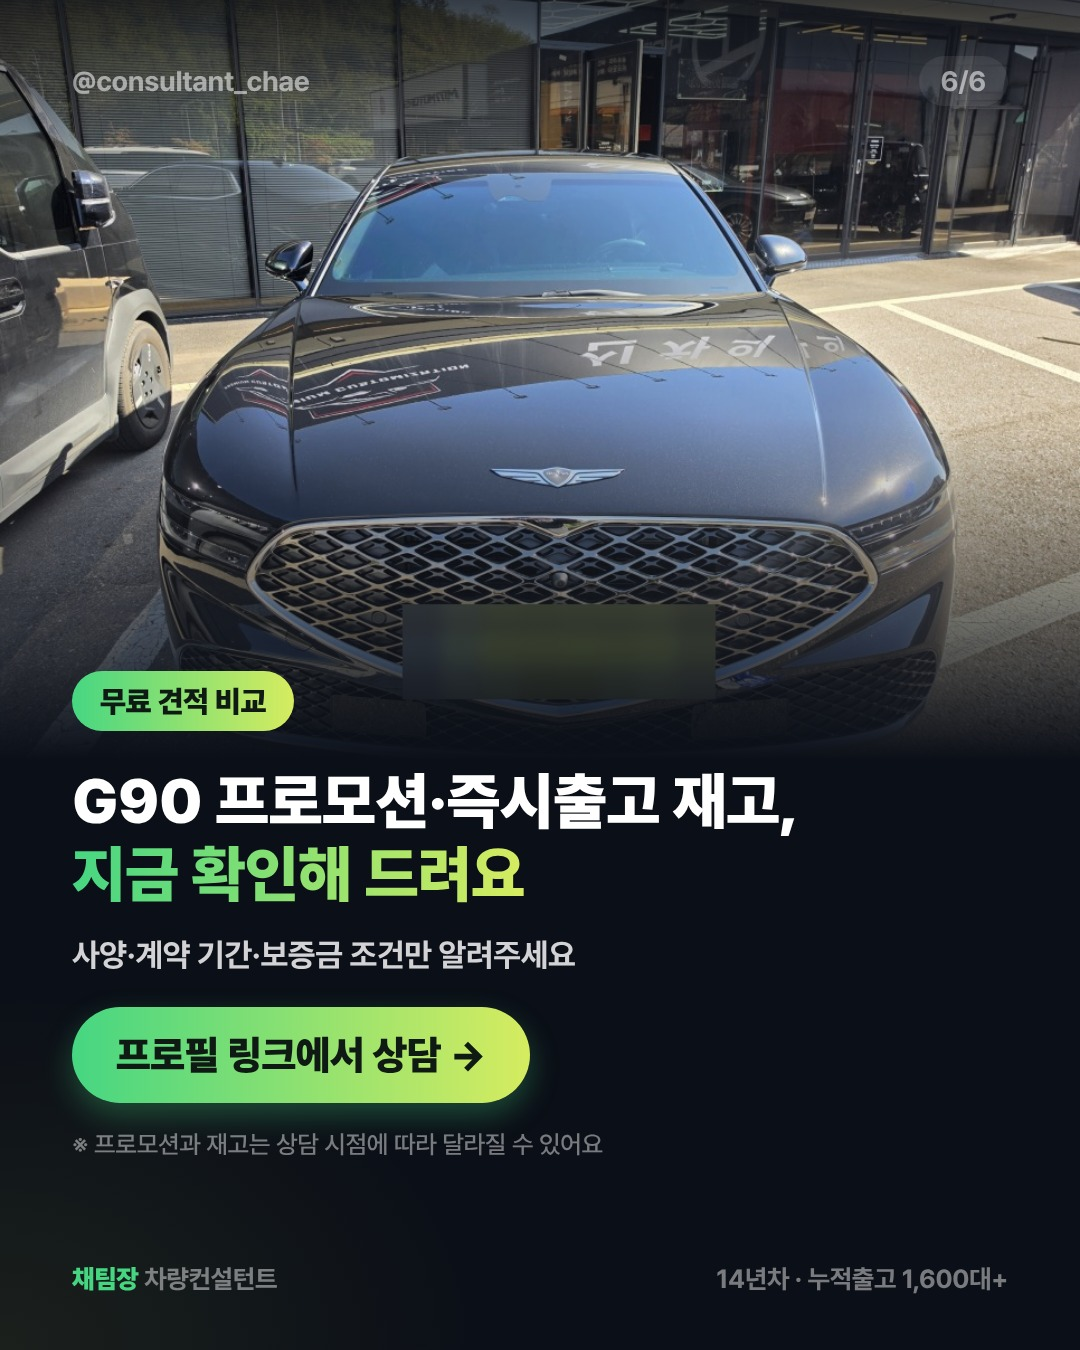
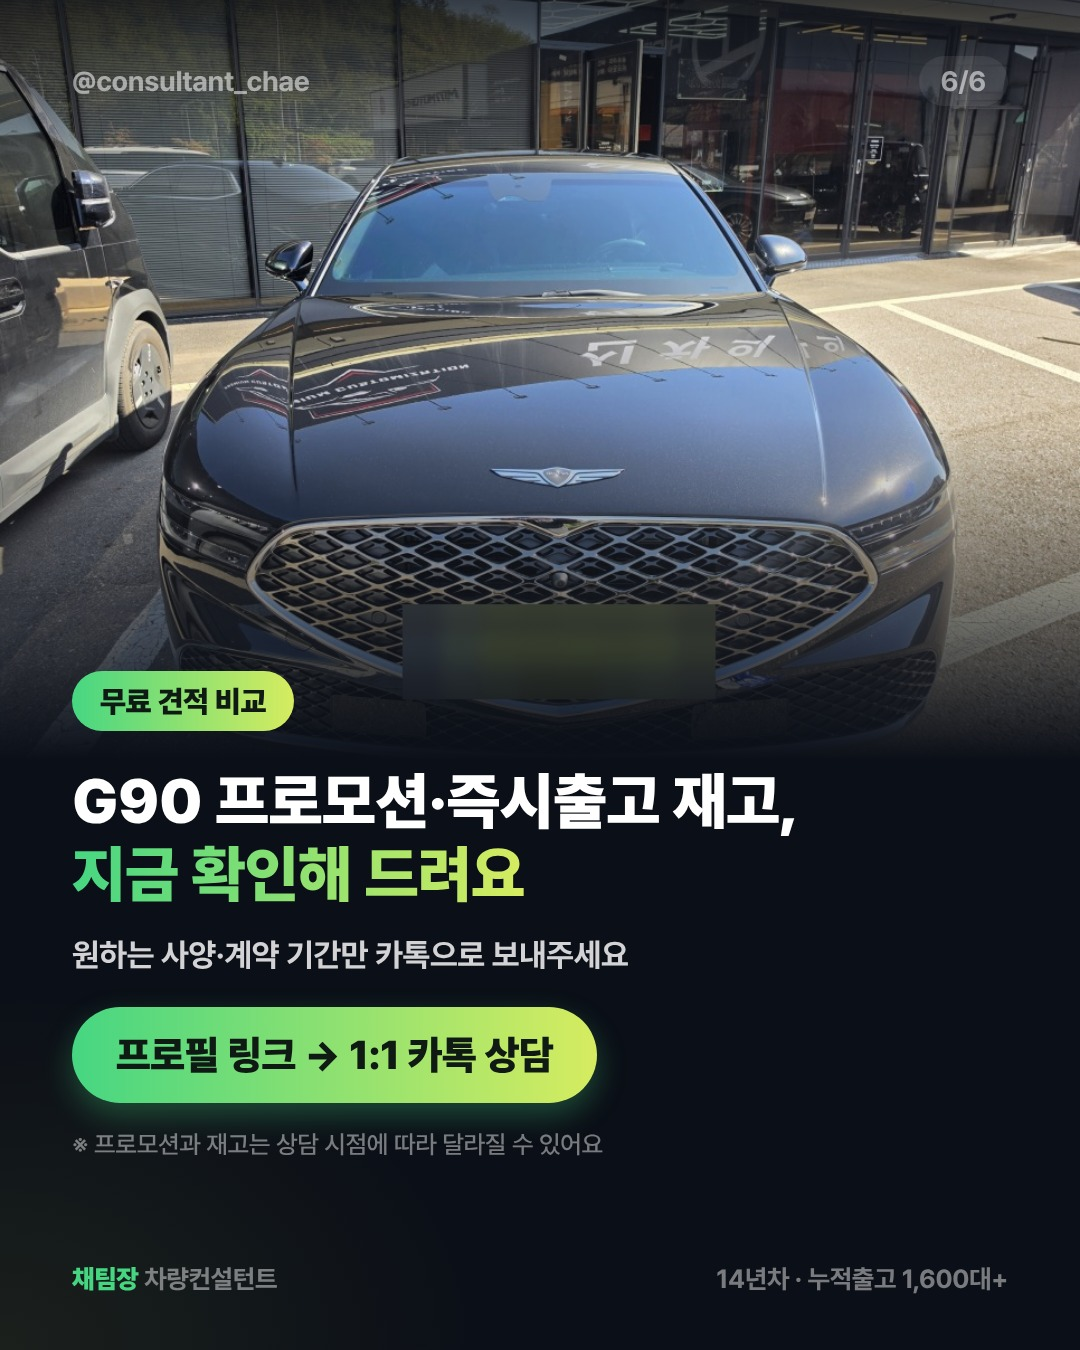
CTA를 프로필 링크 1:1 카톡 상담으로 통일
Claude-Session: https://claude.ai/code/session_011mQyRMwwkGobAwWjG8sWrF

Changed region(s): [[0.275, 0.7467, 0.55, 0.84], [0.0611, 0.6844, 0.5806, 0.7156]]

diff --git a/CONTENT_GUIDE.md b/CONTENT_GUIDE.md
@@ -16,7 +16,7 @@
 - **원천 콘텐츠** = 광고하는 실체: 프로모션 금액, 즉시출고 재고, 실제 출고 차량, 견적 조건, 14년·1,600대 경험, 무료 견적 비교 서비스
 - **광고 콘텐츠** = 그걸 알리는 가공물: 카드뉴스, 캡션, 쓰레드 글
 - 카피를 다듬는 것보다 **원천 콘텐츠를 앞에 세우는 것**이 훨씬 잘 터진다. (예: "750만원 프로모션 + 즉시출고"를 부제가 아니라 제목에)
-- 원천 콘텐츠를 바꿀 수 있으면 바꾼다. (예: "이번 주 즉시출고 재고 3대", "댓글 남기면 재고 리스트 전송")
+- 원천 콘텐츠를 바꿀 수 있으면 바꾼다. (예: "이번 주 즉시출고 재고 3대", "카톡으로 차종만 보내면 견적 3곳 비교")
 
 ## 3. 문제 발견 → 고객 언어(LMF)
 - 흐름: 문제 발견 → 문제 상황 정의(현재 vs 원하는 상태) → 해결책 연결
@@ -31,7 +31,7 @@
 2. 제안이 명확한가? (그래서 뭘 해준다는 건지)
 3. 어떤 가치를 몇 개 결합했나?
 4. 고객 언어로 바꿨나?
-5. 행동 유도(CTA)가 구체적인가? ("프로필 링크"보다 "댓글에 G90 남기면 재고 보내드려요"가 강함)
+5. 행동 유도(CTA)가 구체적인가? 상담은 **프로필 링크의 1:1 카톡**으로 받는다. "프로필 링크 → 1:1 카톡" + "무엇만 보내면 되는지"(예: 차종·기간·연 주행거리)를 함께 적어 문턱을 낮춘다. 댓글 유도 CTA는 쓰지 않는다.
 6. 모든 요소(사진·숫자·문구)가 제 역할을 하나? 빼도 되는 건 뺀다.
 
 ## 5. 벤치마킹 (훔치되 베끼지 않기)
